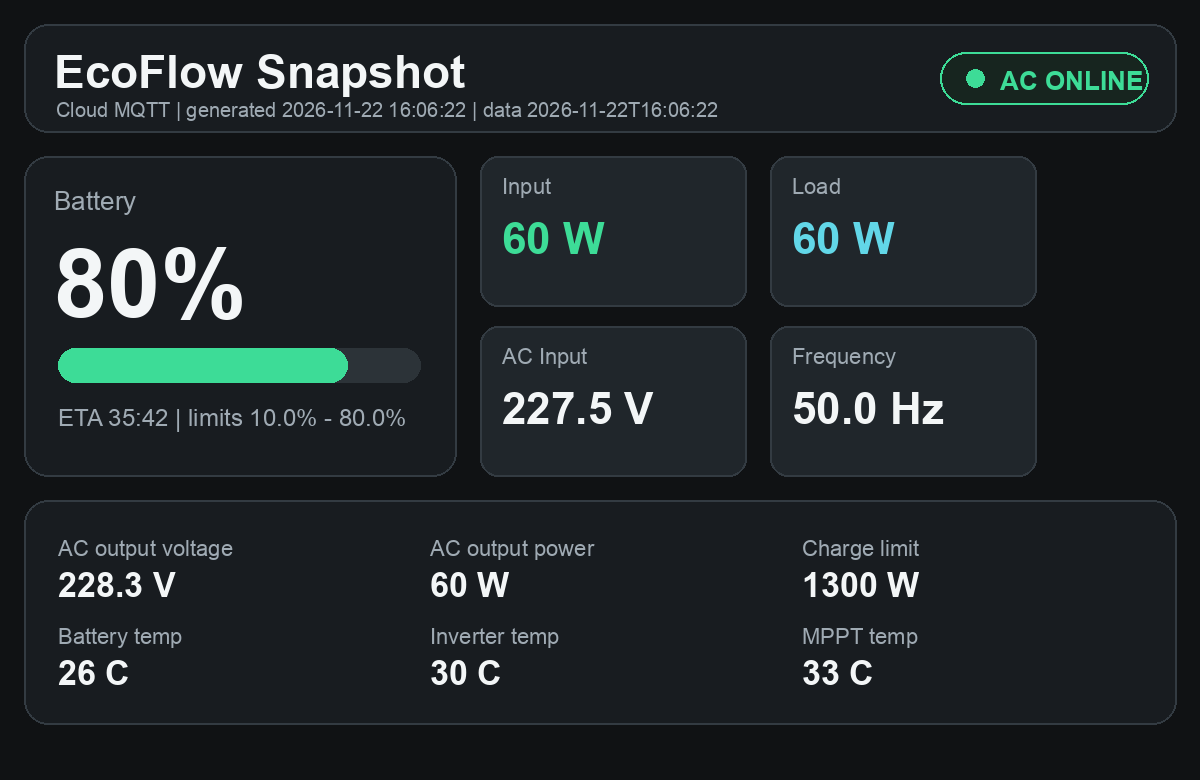
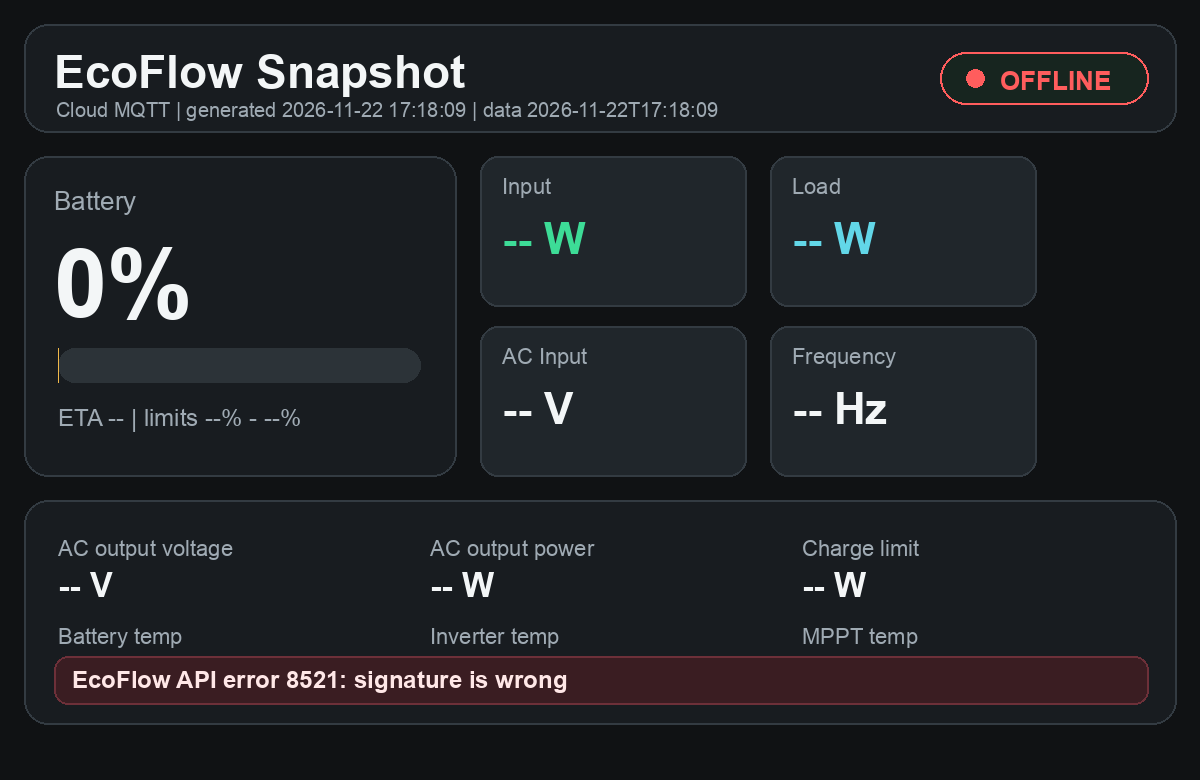
Update EcoFlow dashboard 2026-11-22 17:18:09

diff --git a/index.html b/index.html
@@ -75,7 +75,7 @@
       overflow: hidden;
       margin-top: 14px;
     }
-    .fill { width: 80%; height: 100%; background: linear-gradient(90deg, var(--green), var(--cyan)); }
+    .fill { width: 0%; height: 100%; background: linear-gradient(90deg, var(--green), var(--cyan)); }
     .cards {
       display: grid;
       grid-template-columns: repeat(4, minmax(0, 1fr));
@@ -177,34 +177,34 @@
   <header>
     <div>
       <h1>EcoFlow Snapshot</h1>
-      <div class="sub">Cloud MQTT · generated 2026-11-22T16:06:22 · data 2026-11-22T16:06:22</div>
+      <div class="sub">Cloud MQTT · generated 2026-11-22T17:18:09 · data 2026-11-22T17:18:09</div>
     </div>
-    <div class="status online"><span class="dot"></span><span>AC online</span></div>
+    <div class="status offline"><span class="dot"></span><span>Offline</span></div>
   </header>
 
-  
+  <div class='error'>EcoFlow API error 8521: signature is wrong</div>
 
   <div class="grid">
     <section>
       <h2>Battery</h2>
-      <div class="value">80%</div>
+      <div class="value">0%</div>
       <div class="battery"><div class="fill"></div></div>
-      <div class="row"><span>ETA</span><span>35:42</span></div>
-      <div class="row"><span>SOC limits</span><span>10.0% - 80.0%</span></div>
+      <div class="row"><span>ETA</span><span>--</span></div>
+      <div class="row"><span>SOC limits</span><span>--% - --%</span></div>
     </section>
     <section>
       <h2>AC</h2>
-      <div class="row"><span>Input voltage</span><span>227.5 V</span></div>
-      <div class="row"><span>Input frequency</span><span>50.0 Hz</span></div>
-      <div class="row"><span>Output voltage</span><span>228.3 V</span></div>
+      <div class="row"><span>Input voltage</span><span>-- V</span></div>
+      <div class="row"><span>Input frequency</span><span>-- Hz</span></div>
+      <div class="row"><span>Output voltage</span><span>-- V</span></div>
     </section>
   </div>
 
   <div class="cards">
-    <div class="card"><span class="label">Input</span><span class="value">60 W</span></div>
-    <div class="card"><span class="label">Load</span><span class="value">60 W</span></div>
-    <div class="card"><span class="label">Battery temp</span><span class="value">26°C</span></div>
-    <div class="card"><span class="label">Inverter temp</span><span class="value">30°C</span></div>
+    <div class="card"><span class="label">Input</span><span class="value">-- W</span></div>
+    <div class="card"><span class="label">Load</span><span class="value">-- W</span></div>
+    <div class="card"><span class="label">Battery temp</span><span class="value">--°C</span></div>
+    <div class="card"><span class="label">Inverter temp</span><span class="value">--°C</span></div>
   </div>
 
   
@@ -212,13 +212,13 @@
       <h2>Останні 24 години</h2>
       <div class="daily-grid">
         <div class="daily-item"><span class="label">Напруга min / max</span><strong>223 V / 232 V</strong><small>22.11 10:11 / 21.11 21:22</small></div>
-        <div class="daily-item"><span class="label">SOC min / max</span><strong>78% / 80%</strong><small>21.11 16:16 / 21.11 18:18</small></div>
+        <div class="daily-item"><span class="label">SOC min / max</span><strong>78% / 80%</strong><small>22.11 00:30 / 21.11 18:18</small></div>
         <div class="daily-item"><span class="label">Пік навантаження</span><strong>354 W</strong><small>22.11 12:13</small></div>
         <div class="daily-item"><span class="label">Зарядний ліміт</span><strong>1300 W</strong><small>пік входу 354 W · 27% ліміту</small></div>
         <div class="daily-item"><span class="label">Заряджання</span><strong>0 сек</strong><small>--</small></div>
         <div class="daily-item"><span class="label">Розряджання</span><strong>0 сек</strong><small>--</small></div>
-        <div class="daily-item"><span class="label">Енергія вхід / вихід</span><strong>58 Wh / 58 Wh</strong><small>оцінка за sample-ами</small></div>
-        <div class="daily-item"><span class="label">Частота min / max</span><strong>50.0 Hz / 50.0 Hz</strong><small>21.11 16:16 / 21.11 16:16</small></div>
+        <div class="daily-item"><span class="label">Енергія вхід / вихід</span><strong>55 Wh / 55 Wh</strong><small>оцінка за sample-ами</small></div>
+        <div class="daily-item"><span class="label">Частота min / max</span><strong>50.0 Hz / 50.0 Hz</strong><small>21.11 18:18 / 21.11 18:18</small></div>
       </div>
     </section>
     
@@ -246,33 +246,10 @@
   <details>
     <summary>Snapshot JSON</summary>
     <pre>{
-  &quot;ok&quot;: true,
+  &quot;ok&quot;: false,
   &quot;source&quot;: &quot;Cloud MQTT&quot;,
-  &quot;device&quot;: &quot;DELTA Pro&quot;,
-  &quot;timestamp&quot;: &quot;2026-11-22T16:06:22&quot;,
-  &quot;grid&quot;: true,
-  &quot;battery&quot;: {
-    &quot;soc&quot;: 80,
-    &quot;min&quot;: 10.0,
-    &quot;max&quot;: 80.0,
-    &quot;eta&quot;: &quot;35:42&quot;
-  },
-  &quot;power&quot;: {
-    &quot;in&quot;: 60,
-    &quot;out&quot;: 60,
-    &quot;acOut&quot;: 60,
-    &quot;chargeLimit&quot;: 1300
-  },
-  &quot;ac&quot;: {
-    &quot;inputVoltage&quot;: 227.508,
-    &quot;inputFreq&quot;: 50.0,
-    &quot;outputVoltage&quot;: 228.342
-  },
-  &quot;temps&quot;: {
-    &quot;battery&quot;: 26,
-    &quot;inverter&quot;: 30,
-    &quot;mppt&quot;: 33
-  },
+  &quot;timestamp&quot;: &quot;2026-11-22T17:18:09&quot;,
+  &quot;error&quot;: &quot;EcoFlow API error 8521: signature is wrong&quot;,
   &quot;history&quot;: [
     {
       &quot;ts&quot;: &quot;2026-11-20T21:20:56&quot;,
@@ -391,8 +368,8 @@
   ],
   &quot;telemetry&quot;: {
     &quot;window&quot;: &quot;24h&quot;,
-    &quot;sample_count&quot;: 19,
-    &quot;from&quot;: &quot;2026-11-21T16:16:50&quot;,
+    &quot;sample_count&quot;: 18,
+    &quot;from&quot;: &quot;2026-11-21T18:18:46&quot;,
     &quot;to&quot;: &quot;2026-11-22T16:06:22&quot;,
     &quot;latest&quot;: {
       &quot;mode&quot;: &quot;idle&quot;,
@@ -414,17 +391,17 @@
       },
       &quot;frequency_min&quot;: {
         &quot;value&quot;: 50.0,
-        &quot;ts&quot;: &quot;2026-11-21T16:16:50&quot;
+        &quot;ts&quot;: &quot;2026-11-21T18:18:46&quot;
       },
       &quot;frequency_max&quot;: {
         &quot;value&quot;: 50.0,
-        &quot;ts&quot;: &quot;2026-11-21T16:16:50&quot;
+        &quot;ts&quot;: &quot;2026-11-21T18:18:46&quot;
       }
     },
     &quot;soc&quot;: {
       &quot;min&quot;: {
         &quot;value&quot;: 78.0,
-        &quot;ts&quot;: &quot;2026-11-21T16:16:50&quot;
+        &quot;ts&quot;: &quot;2026-11-22T00:30:01&quot;
       },
       &quot;max&quot;: {
         &quot;value&quot;: 80.0,
@@ -446,16 +423,16 @@
       },
       &quot;charge_limit_w&quot;: 1300.0,
       &quot;max_input_pct_of_current_limit&quot;: 27,
-      &quot;input_wh_est&quot;: 58.2,
-      &quot;load_wh_est&quot;: 58.2
+      &quot;input_wh_est&quot;: 55.0,
+      &quot;load_wh_est&quot;: 55.0
     },
     &quot;modes&quot;: {
       &quot;charging_sec&quot;: 0,
       &quot;discharging_sec&quot;: 0,
-      &quot;idle_sec&quot;: 3240,
+      &quot;idle_sec&quot;: 3060,
       &quot;charging&quot;: &quot;0 сек&quot;,
       &quot;discharging&quot;: &quot;0 сек&quot;,
-      &quot;idle&quot;: &quot;54 хв&quot;,
+      &quot;idle&quot;: &quot;51 хв&quot;,
       &quot;last_charging&quot;: null,
       &quot;last_discharging&quot;: null
     }
